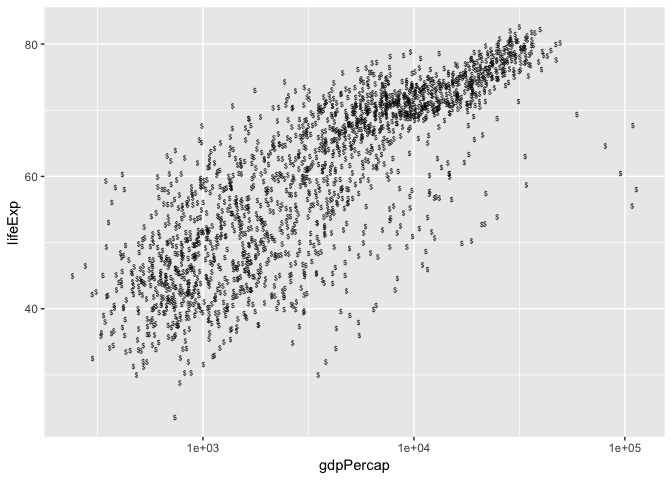
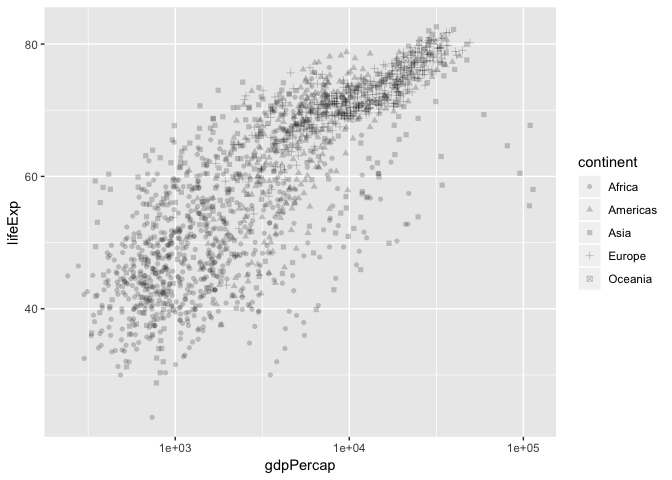
final

diff --git a/cm007-exercise.md b/cm007-exercise.md
@@ -11,14 +11,14 @@ library(gapminder)
 library(tidyverse)
 ```
 
-    ## ── Attaching packages ─────────────────────────────────────────────────── tidyverse 1.2.1 ──
+    ## ── Attaching packages ────────────────────────────────────────────────────── tidyverse 1.2.1 ──
 
     ## ✔ ggplot2 3.0.0     ✔ purrr   0.2.5
     ## ✔ tibble  1.4.2     ✔ dplyr   0.7.6
     ## ✔ tidyr   0.8.1     ✔ stringr 1.3.1
     ## ✔ readr   1.1.1     ✔ forcats 0.3.0
 
-    ## ── Conflicts ────────────────────────────────────────────────────── tidyverse_conflicts() ──
+    ## ── Conflicts ───────────────────────────────────────────────────────── tidyverse_conflicts() ──
     ## ✖ dplyr::filter() masks stats::filter()
     ## ✖ dplyr::lag()    masks stats::lag()
 
@@ -29,11 +29,16 @@ Shapes
 
 ``` r
 gvsl<-ggplot(gapminder,aes(gdpPercap,lifeExp)) + scale_x_log10()
-
-gvsl+geom_point(shape="$")
+gvsl+geom_point(aes(shape=continent),alpha=0.2)
 ```
 
 ![](cm007-exercise_files/figure-markdown_github/unnamed-chunk-2-1.png)
+
+``` r
+gvsl+geom_point(shape="$")
+```
+
+![](cm007-exercise_files/figure-markdown_github/unnamed-chunk-2-2.png)
 
 -   As with all (?) aesthetics, we can also have them *not* as aesthetics!
     -   Try some shapes: first as integer from 0-24, then as keyboard characters.
@@ -193,6 +198,40 @@ Let's see how Rwanda's life expectancy and GDP per capita have evolved over time
 
 -   Try `geom_line()`. Try `geom_point()`.
 
+``` r
+summary(gapminder)
+```
+
+    ##         country        continent        year         lifeExp     
+    ##  Afghanistan:  12   Africa  :624   Min.   :1952   Min.   :23.60  
+    ##  Albania    :  12   Americas:300   1st Qu.:1966   1st Qu.:48.20  
+    ##  Algeria    :  12   Asia    :396   Median :1980   Median :60.71  
+    ##  Angola     :  12   Europe  :360   Mean   :1980   Mean   :59.47  
+    ##  Argentina  :  12   Oceania : 24   3rd Qu.:1993   3rd Qu.:70.85  
+    ##  Australia  :  12                  Max.   :2007   Max.   :82.60  
+    ##  (Other)    :1632                                                
+    ##       pop              gdpPercap       
+    ##  Min.   :6.001e+04   Min.   :   241.2  
+    ##  1st Qu.:2.794e+06   1st Qu.:  1202.1  
+    ##  Median :7.024e+06   Median :  3531.8  
+    ##  Mean   :2.960e+07   Mean   :  7215.3  
+    ##  3rd Qu.:1.959e+07   3rd Qu.:  9325.5  
+    ##  Max.   :1.319e+09   Max.   :113523.1  
+    ## 
+
+``` r
+gapminder %>% 
+  filter(country=="Rwanda") %>% 
+  arrange(year) %>% 
+  ggplot(aes(gdpPercap,lifeExp))+
+  #scale_x_log10+
+  geom_point()+
+  #geom_line()
+  geom_path(arrow=arrow())
+```
+
+![](cm007-exercise_files/figure-markdown_github/unnamed-chunk-17-1.png)
+
 -   Add `arrow=arrow()` option.
 
 -   Add `geom_text`, with year label.
@@ -203,6 +242,20 @@ Two categorical variables
 Try `cyl` (number of cylinders) ~ `am` (transmission) in the `mtcars` data frame.
 
 -   Scatterplot? Jitterplot? No.
+
+``` r
+ggplot(mtcars,aes(factor(cyl),factor(am)))+
+  #geom_point()+
+  #geom_jitter()+
+ # geom_count()+
+  geom_bin2d()
+```
+
+![](cm007-exercise_files/figure-markdown_github/unnamed-chunk-20-1.png)
+
+``` r
+  #for heat map, gene expression
+```
 
 -   `geom_count()`.
 
@@ -218,6 +271,24 @@ Try a scatterplot with:
 -   `geom_density2d()`
 -   `geom_smooth()`
 
+``` r
+gvsl+geom_hex()
+```
+
+![](cm007-exercise_files/figure-markdown_github/unnamed-chunk-22-1.png)
+
+``` r
+gvsl+geom_density2d()
+```
+
+![](cm007-exercise_files/figure-markdown_github/unnamed-chunk-22-2.png)
+
+``` r
+gvsl+geom_point(alpha=0.1)+geom_smooth(method="lm")
+```
+
+![](cm007-exercise_files/figure-markdown_github/unnamed-chunk-22-3.png)
+
 Bar plots
 ---------
 
@@ -225,7 +296,16 @@ How many countries are in each continent? Use the year 2007.
 
 1.  After filtering the gapminder data to 2007, make a bar chart of the number of countries in each continent. Store everything except the geom in the variable `d`.
 
-2.  Notice the y-axis. Oddly, `ggplot2` doesn't make it obvious how to change to proportion. Try adding a `y` aesthetic: `y=..count../sum(..count..)`.
+``` r
+gapminder %>% 
+  filter(year==2007) %>% 
+  ggplot(aes(x=continent))+
+  geom_bar()
+```
+
+![](cm007-exercise_files/figure-markdown_github/unnamed-chunk-23-1.png)
+
+1.  Notice the y-axis. Oddly, `ggplot2` doesn't make it obvious how to change to proportion. Try adding a `y` aesthetic: `y=..count../sum(..count..)`.
 
 **Uses of bar plots**: Get a sense of relative quantities of categories, or see the probability mass function of a categorical random variable.
 
@@ -233,6 +313,16 @@ Polar coordinates
 -----------------
 
 -   Add `coord_polar()` to a scatterplot.
+
+``` r
+gvsl+geom_point()+coord_polar()
+```
+
+![](cm007-exercise_files/figure-markdown_github/unnamed-chunk-24-1.png)
+
+``` r
+#geological data, distance from the center
+```
 
 Want more practice?
 ===================
